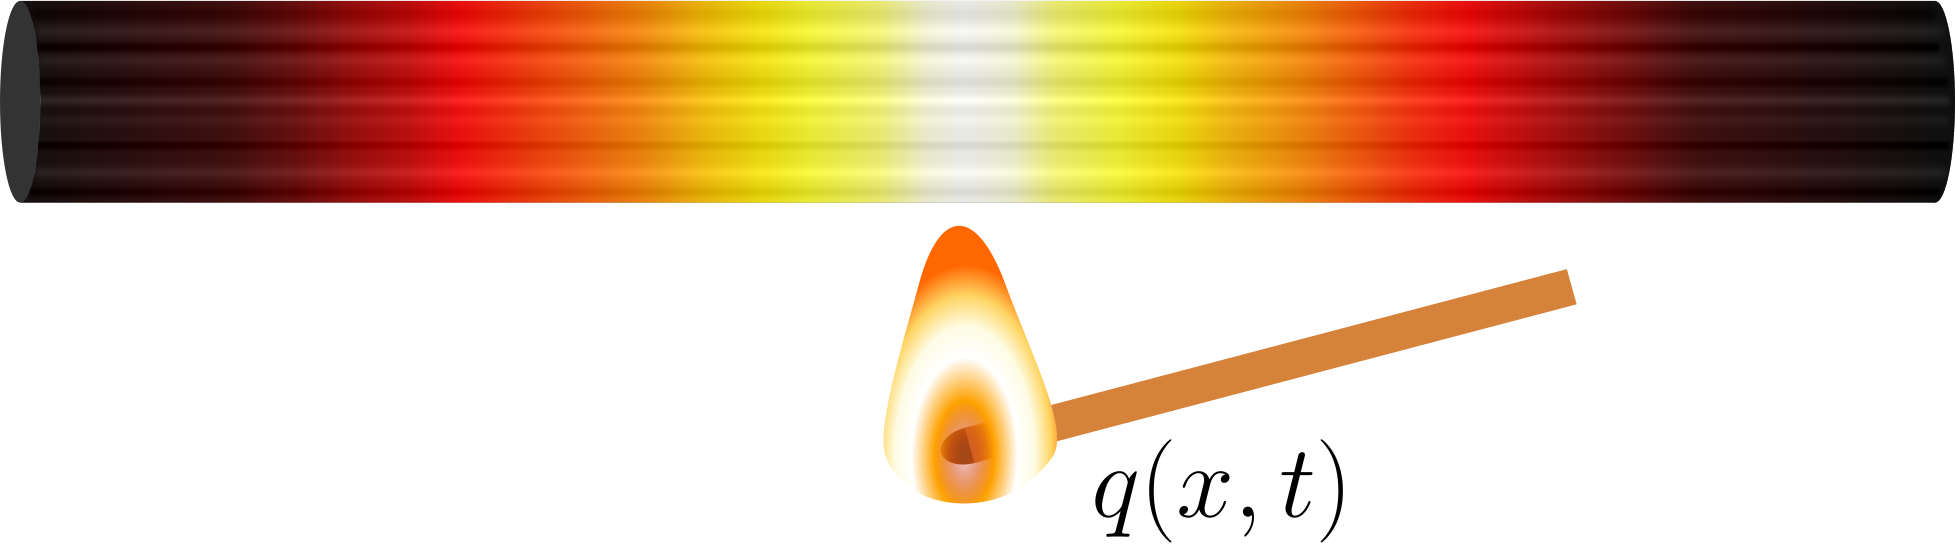
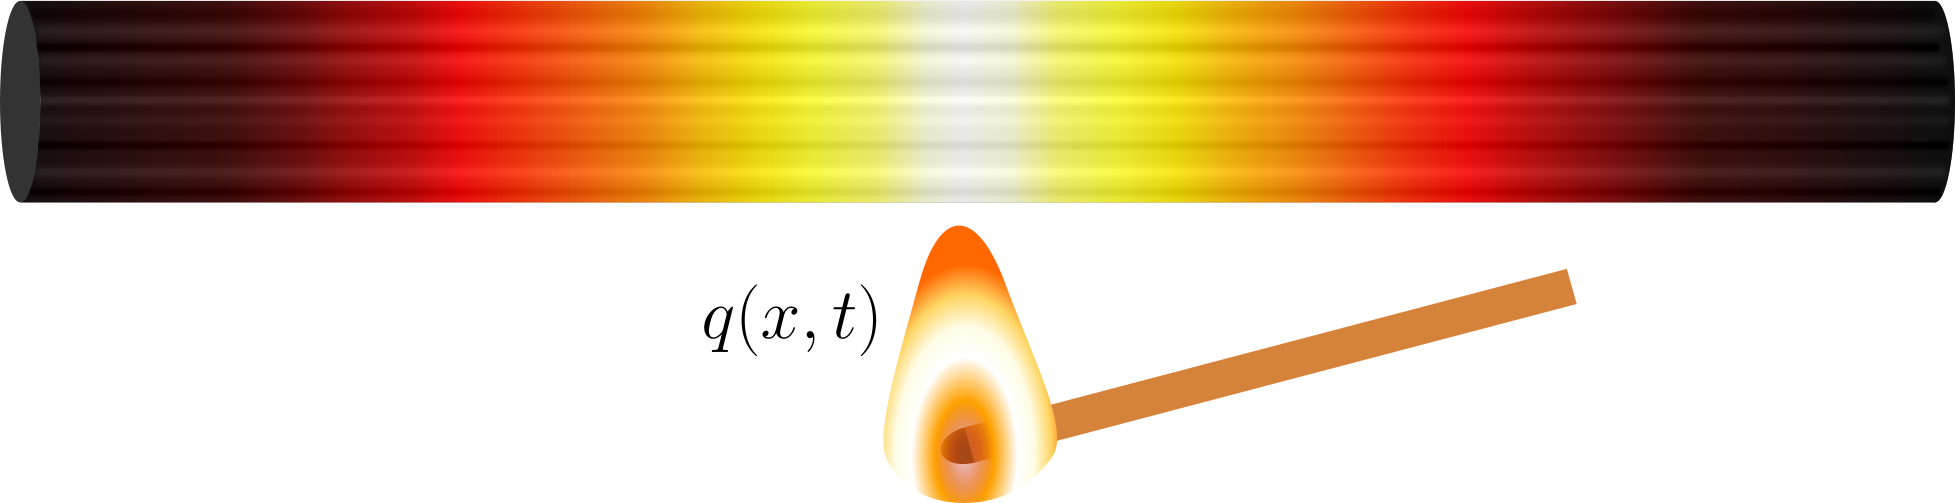
Some more work on the model description

Changed region(s): [[0.0, 0.328, 0.9985, 1.0], [0.9985, 0.2087, 1.0, 0.2982], [0.9985, 0.0895, 1.0, 0.1789]]

diff --git a/README.md b/README.md
@@ -14,15 +14,23 @@ https://github.com/user-attachments/assets/866e1d23-5a75-4f3f-b477-7837770ec363
 Jet:
 https://github.com/user-attachments/assets/866e1d23-5a75-4f3f-b477-7837770ec363
 
-## Wiring
+## Microcontroller setup
 ![Some text](assets/circuit.png)
+
+Relevant configuration parameters in ```config.json```:
+```json
+"serial": {
+    "device": "/dev/ttyACM0",
+    "baud_rate": 115200
+}
+```
 
 ## The model
 The heat conduction is modeled using the one dimensional heat equation to solve for the temperature $$T$$, on the spatial domain $$\Omega = [x_0, x_1]$$ over a time interval $$[t_0, t_1]$$:
 
 $$\frac{\partial T}{\partial t} = \alpha \nabla^2 T - \beta \frac{\partial T}{\partial x} - \gamma T + q(x, t), \quad (x, t) \in \Omega \times [t_0, t_1]$$.
 
-The first term on the right-hand side (RHS) represents heat spread through diffusion, with $$\alpha$$ being the diffusion coefficient. The second term on the RHS is an advection term, with $$\beta$$ being the advection velocity. The third term models the heat exchange with the surrounding air, with $$\gamma$$ being the thermal conductivity between the air and the rod. Lastly $$q$$ is a forcing term representing an external source heating the rod. This could for for example be a lighter centered in the middle of the rod, or really anything that can generate heat such as radioactive decay.
+In this model the instaneous change in temperature, represented by the left-hand side term, at a particular point $x$ has four contribution: The first term on the right-hand side (RHS) is the change in temperature due to diffusion, with $$\alpha$$ being the diffusion coefficient. The second term on the RHS is the temperature change due to advection, with $$\beta$$ being the advection velocity. The third term models the heat exchange with the surrounding air, with $$\gamma$$ being the thermal conductivity between the air and the rod. Lastly $$q$$ is a forcing term representing an external source heating the rod. This could for example be the lit match, shown in the figure above, but can in reality be anything that can generate heat such as radioactive decay.
 
 For boundary conditions insulated ends are used:
 
@@ -31,6 +39,33 @@ $$\frac{\partial T}{\partial x} = 0, \quad x=x_0$$ or $$x=x_1$$,
 meaning no heat is allowed to escape through the boundary.
 
 The initial temperature is set to $$T=0$$.
+
+Relevant configuration parameters in ```config.json```:
+```json
+"domain": {
+    "x0": 0.0,
+    "x1": 0.8,
+    "t0": 0.0,
+    "t1": 15.0
+}
+```
+
+## The source term
+To force the model we use a heat source term in the form of a gaussian with an exponentialy decaying amplitude:
+
+$$q(x, t) = A_0 e^{\frac{t}{\tau}} e^{\frac{(x-\mu)^2}{4 \sigma^2}}$$.
+
+Here $$A_0$$ is the initial amplitude, $$\tau$$ a relaxation term, $$\mu$$ is the center of the gaussian, and $$\sigma$$ its standard deviation. The function is plotted below for the indicated parameter values.
+
+Relevant configuration parameters in ```config.json```:
+```json
+"source": {
+    "A0": 25.0,
+    "sigma": 0.025,
+    "mu": 0.4,
+    "tau": 4.0
+}
+```
 
 ### Spatial discretization
 The problem is solved numerically using the finite element method (FEM). To discretizate one first has to define the space of possible solutions (the so-called trial space) $$\mathcal{U}$$, so that $$T \in \mathcal{U}$$. Next we multiply by a test function $$v \in \mathcal{V}$$, where $$\mathcal{V}$$ is the space of test functions (the so-called test space), and integratining over the domain. This leads to the time-continuous weak formulation of the problem: Find $$T \in \mathcal{U}$$ such that:
@@ -115,6 +150,20 @@ Vector run_simulation(const double t0, const double t1, const size_t nt)
 ```
 
 Note for efficiency reasons that in the actual code the inverse is never formed explicitly, rather it relies on its (sparse) LU factorization to calculate its action on vectors and matrices.
+
+Relevant configuration parameters in ```config.json```:
+```json
+"computational": {
+    "nx": 100,
+    "nt": 3000,
+    "deg": 3,
+    "update_after_num_steps": 10,
+    "repeat_num_times": -1,
+    "num_leds": 25
+}
+```
+
+Note that -1 means repeat simulation, by all practical means, indefintely.
 
 ## Software and libraries used
 * GNU Scientific Library for dense linear algebra
